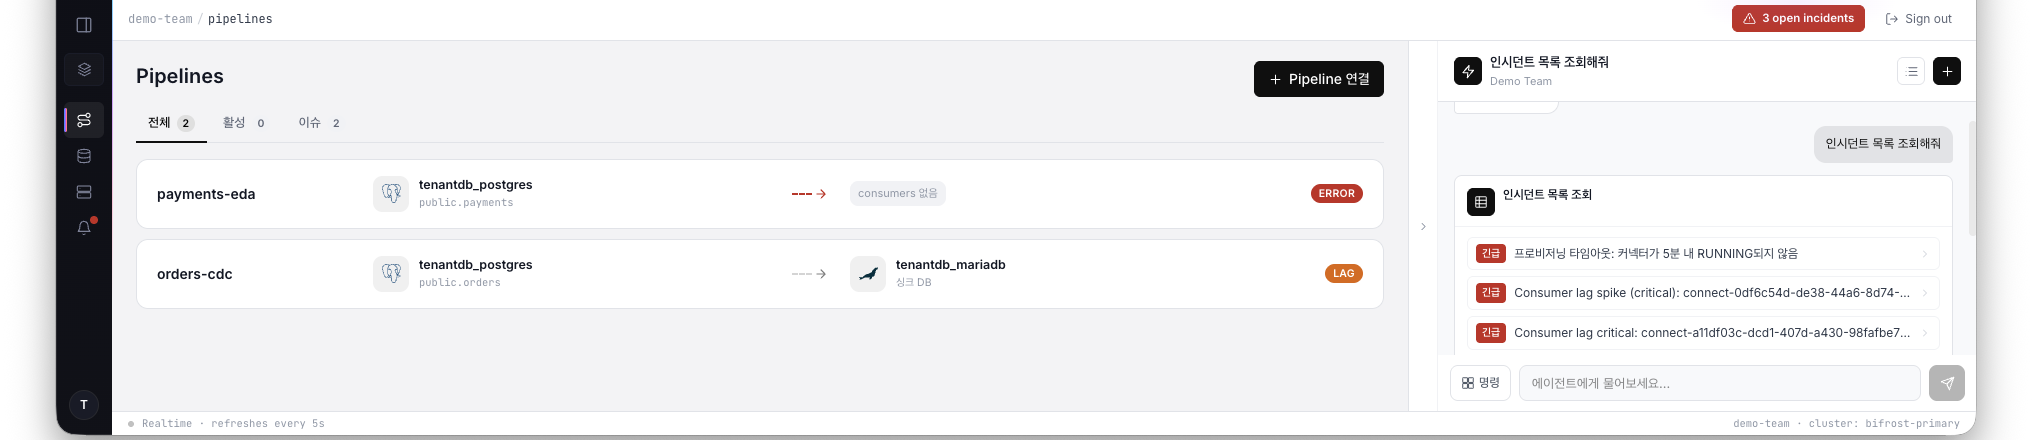
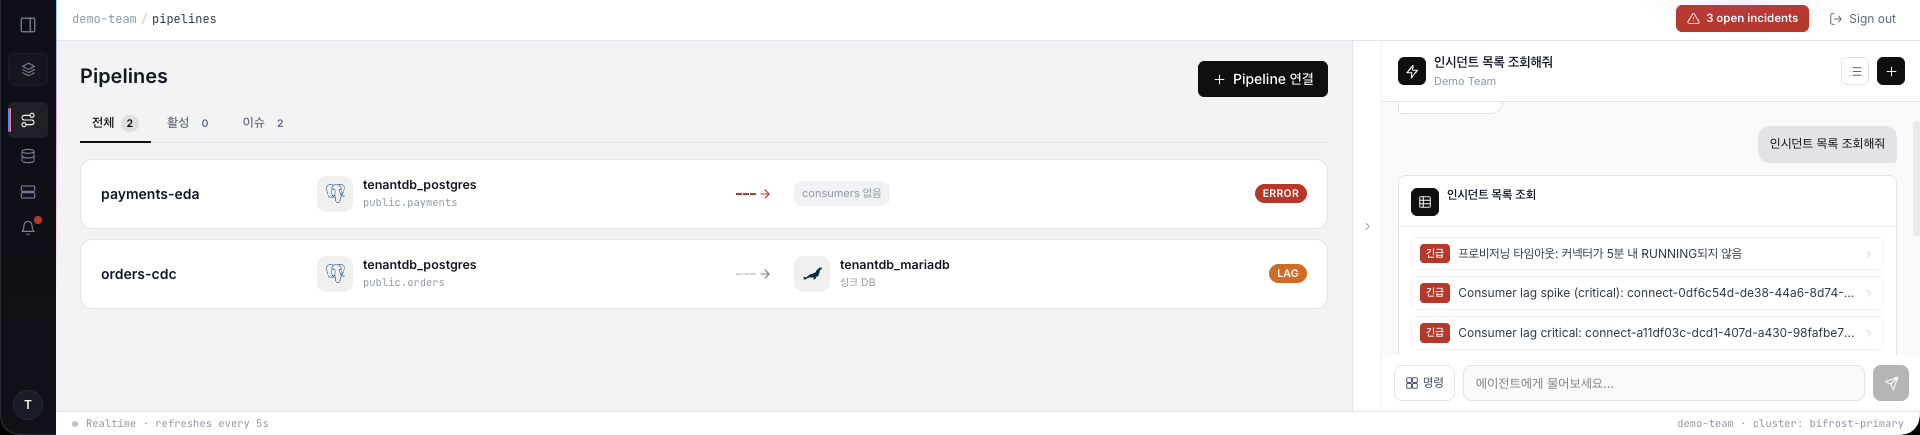
#996 [chore] 랜딩 이미지 윈도우 타이트 크롭 — 검은 여백·브라우저 크롬 제거
- 사용자 제공 화면의 서비스 콘텐츠 bbox(검은 데스크톱 여백 제외)로 타이트 크롭 +
  상단 브라우저 크롬 제거 → 서비스 화면만 edge-to-edge(1920x435).
- 내용: demo-team 파이프라인 + AI 채팅 인시던트 목록 조회 카드.
- img width/height 1920x435로 맞춤. 로컬 렌더 검증 완료.

diff --git a/services/frontend/src/pages/Landing.tsx b/services/frontend/src/pages/Landing.tsx
@@ -331,8 +331,8 @@ function ConsoleShot() {
         src="/landing-pipelines.png"
         alt="bifrost 콘솔 — 파이프라인 목록과 AI 에이전트 인시던트 조회"
         className="block w-full"
-        width={2032}
-        height={440}
+        width={1920}
+        height={435}
         loading="lazy"
       />
     </div>